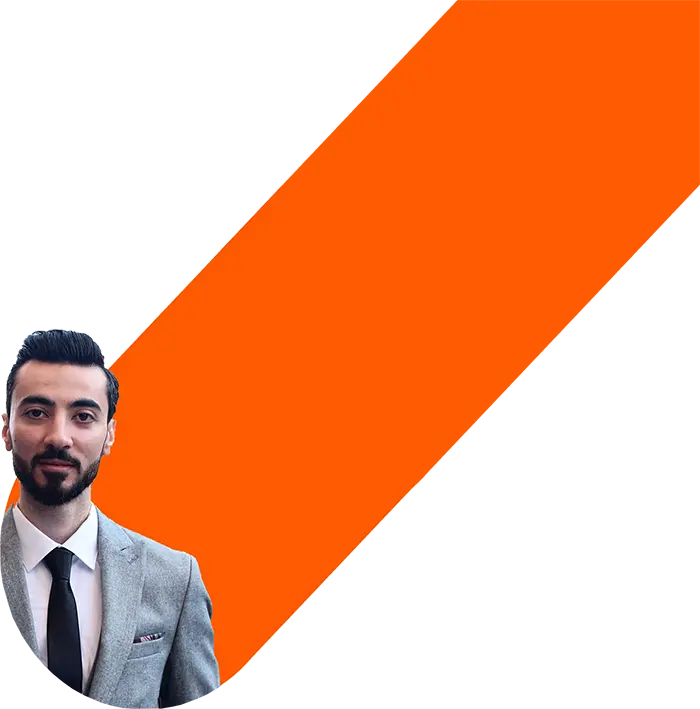
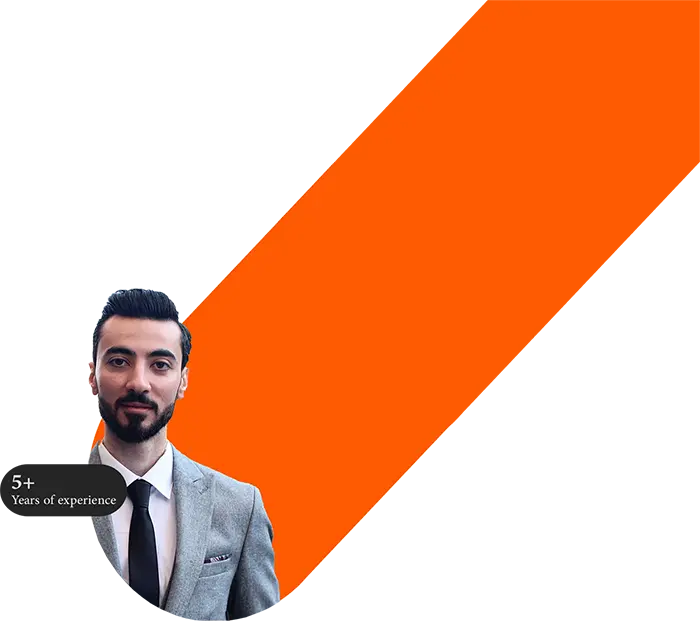
info section

diff --git a/css/css.css b/css/css.css
@@ -18,10 +18,14 @@ html{
 }
 /* typography */
 .body{
-    font-family: 'Bai Jamjuree', sans-serif;
+    font-family: Georgia, 'Times New Roman', Times, serif;
     color: var(--body-color);
-    font-size: 2.4rem;
+    font-size: 1rem;
     line-height: 1.5;
+    overflow-y: hidden;
+}
+*::-webkit-scrollbar{
+    display: none;
 }
 h1,h2{
     color: var(--color-heading);
@@ -30,6 +34,7 @@ h1,h2{
 }
 h1{
     font-size: 6rem;
+    margin-top: 0;
 }
 h2{
     font-size: 4rem;
@@ -46,7 +51,10 @@ a{
 .text__black{
     color: var(--color-light-black);
 }
-@media screen and (min-width: 1024px) {
+.bold__text{
+    font-weight: 900;
+}
+@media screen and (max-width: 1024px) {
     h1{
         font-size: 8rem;
     }
@@ -86,35 +94,23 @@ a{
     color: #fff;
     background-color:var(--color-light-black);
 }
+@media screen and (max-width:500px) {
+    .button{
+        padding: .5rem 1rem;
+        font-size: .5rem;
+    }
+}
 /* logo */
 .logo{
     width: 3rem;
 }
-.image-me{
-    position: absolute;
-    right: -10rem;
-    top: -15rem;
-    width: 50vw;
-    z-index: -1;
-}
-@media screen and (max-width:900px) {
-    .image-me{
-        top: -3rem;
-        right: -5rem;
-    }
-}
 @media screen and (max-width:500px) {
-    .image-me{
-        width: 100vw;
-        top: -3rem;
-        right: -5rem;
+    .logo{
+        width: 2.5rem;
     }
 }
 /* collapsible */
 
- .collapsible__icon{
-    color: var(--color-primary);
-}
 .collapsible__link{
     color:var(--text-color);
     transition: .4s;
@@ -122,6 +118,9 @@ a{
 }
 .collapsible__link:hover{
     color:var(--grey-color);
+}
+@media screen and (max-width:500px) {
+
 }
 /* Nav bar */
 .navbar{
@@ -145,8 +144,7 @@ a{
     display: none;
 }
 .menue-icon i{
-    font-size: 2rem;
-
+    font-size: 1.5rem;
 }
 #check{
     display: none;
@@ -177,17 +175,112 @@ a{
 .card{
     text-align: center;
     display: inline-block;
-    border-radius: 15px;
-}
-.card__small{
+    border-radius: 5px;
     padding: 1rem 2rem;
 }
-.card__big{
-    padding: .5rem 4rem;
-}
-.card__heading{
-    margin: 0;
+.card__project{
+    text-align: center;
+    display: inline-block;
+    border-radius: 5px;
+    padding: 4rem 8rem;
+    max-width: 180px;
 }
 .card__text{
     margin: 0;
+}
+
+/* info */
+.info{
+    display: flex;
+    justify-content: space-between;
+    align-items: center;
+    padding: 0rem 1rem;
+}
+.info__image{
+    position: relative;
+    right: -25vw;
+    top: -10rem;
+    width: 50vw;
+    min-width: 550px;
+    z-index: -1;
+    order: 2;
+}
+
+.info__title{
+    font-weight: 300;
+    font-size: 3rem;
+}
+.programming-languages{
+    margin-top: 3rem;
+    display: grid;
+    grid-template-columns: 5.5rem 7rem;
+    grid-template-rows: repeat(2,3rem);
+    gap: .5rem;
+}
+@media screen and (max-width:500px) {
+    .info{
+        flex-direction: column;
+        align-items: start;
+    }
+    .info__image{
+        order: 0;
+        width: 100vw;
+        min-width: 350px;
+        top: -6rem;
+        
+    }
+}
+
+/* latest projects */
+.latest-projects__heading{
+    padding: 1rem 1rem;
+    display: flex;
+    flex-wrap: wrap;
+    justify-content: space-between;
+    align-items: center;
+}
+.latest-projects__title{
+    margin: 0;
+    flex-grow: 1;
+}
+.latest-projects__type{
+    display: flex;
+    align-items: center;
+}
+.latest-projects--p{
+    padding: 0 1rem;
+    text-decoration: underline;
+    margin: 0;
+}
+.latest-projects--icon{
+    font-size: 1.5rem;
+    color: #c2c2c2;
+    background-color: var(--color-light-black);
+    padding: .8rem;
+    border-radius: 5px;
+}
+.projects{
+    padding: 0rem 1rem;
+}
+ 
+.project__01{
+position: relative;
+display: flex;
+flex-direction: column;
+max-width: fit-content;
+}
+.project__number{
+    position: absolute;
+    right: -3rem;
+    bottom: 1rem;
+}
+@media screen and (max-width:500px) {
+.latest-projects--p{
+ order: 3;
+ width: 100%;
+ padding: 0;
+}
+.latest-projects__heading{
+    margin-top: 3rem;
+}
 }

diff --git a/index.html b/index.html
@@ -45,17 +45,50 @@
       <img class="logo" src="images/h-logo.webp" alt="" />
       <div class="button background-grey">contact me</div>
     </nav>
-    <!-- personal image -->
-    <img
-      class="image-me"
-      src="images/pic.webp"
-      alt="a human piture"
-      srcset="images/pic-mobile.webp 500w, images/pic.webp 800w"
-    />
-    <div class="background-light-black text__white card card__big">
-      <h2 class="card__heading">10+</h2>
-      <p class="card__text">Years experience</p>
+    <!-- personal info -->
+    <div class="container info">
+      <img
+        class="info__image"
+        src="images/pic.webp"
+        alt="a human piture"
+        srcset="images/pic-mobile.webp 500w, images/pic.webp 800w"
+      />
+      <div>
+        <h1 class="info__title">My name</h1>
+        <h1 class="info__title">is Hussein</h1>
+        <p>
+          I am a professional programmer with more than 5 years of experience
+        </p>
+        <div class="button background-primary">Hire me</div>
+        <div class="programming-languages">
+          <div class="card background-light-primary">
+            <p class="card__text">c#</p>
+          </div>
+          <div class="card background-primary">
+            <p class="card__text">java</p>
+          </div>
+          <div class="card background-light-black">
+            <p class="card__text">css</p>
+          </div>
+          <div class="card background-grey">
+            <p class="card__text">html</p>
+          </div>
+        </div>
+      </div>
     </div>
-    <!-- heading -->
+    <!-- latest projects -->
+    <div class="latest-projects__heading container">
+      <h2 class="latest-projects__title">Latest projects</h2>
+      <p class="latest-projects--p">All projects</p>
+      <i class="fa-solid fa-sliders button latest-projects--icon"></i>
+    </div>
+    <div class="projects container">
+      <div class="project__01">
+        <div class="card__project background-grey">
+          <div class="card background-light-black project__number">01</div>
+        </div>
+        <p>space age 60</p>
+      </div>
+    </div>
   </body>
 </html>
